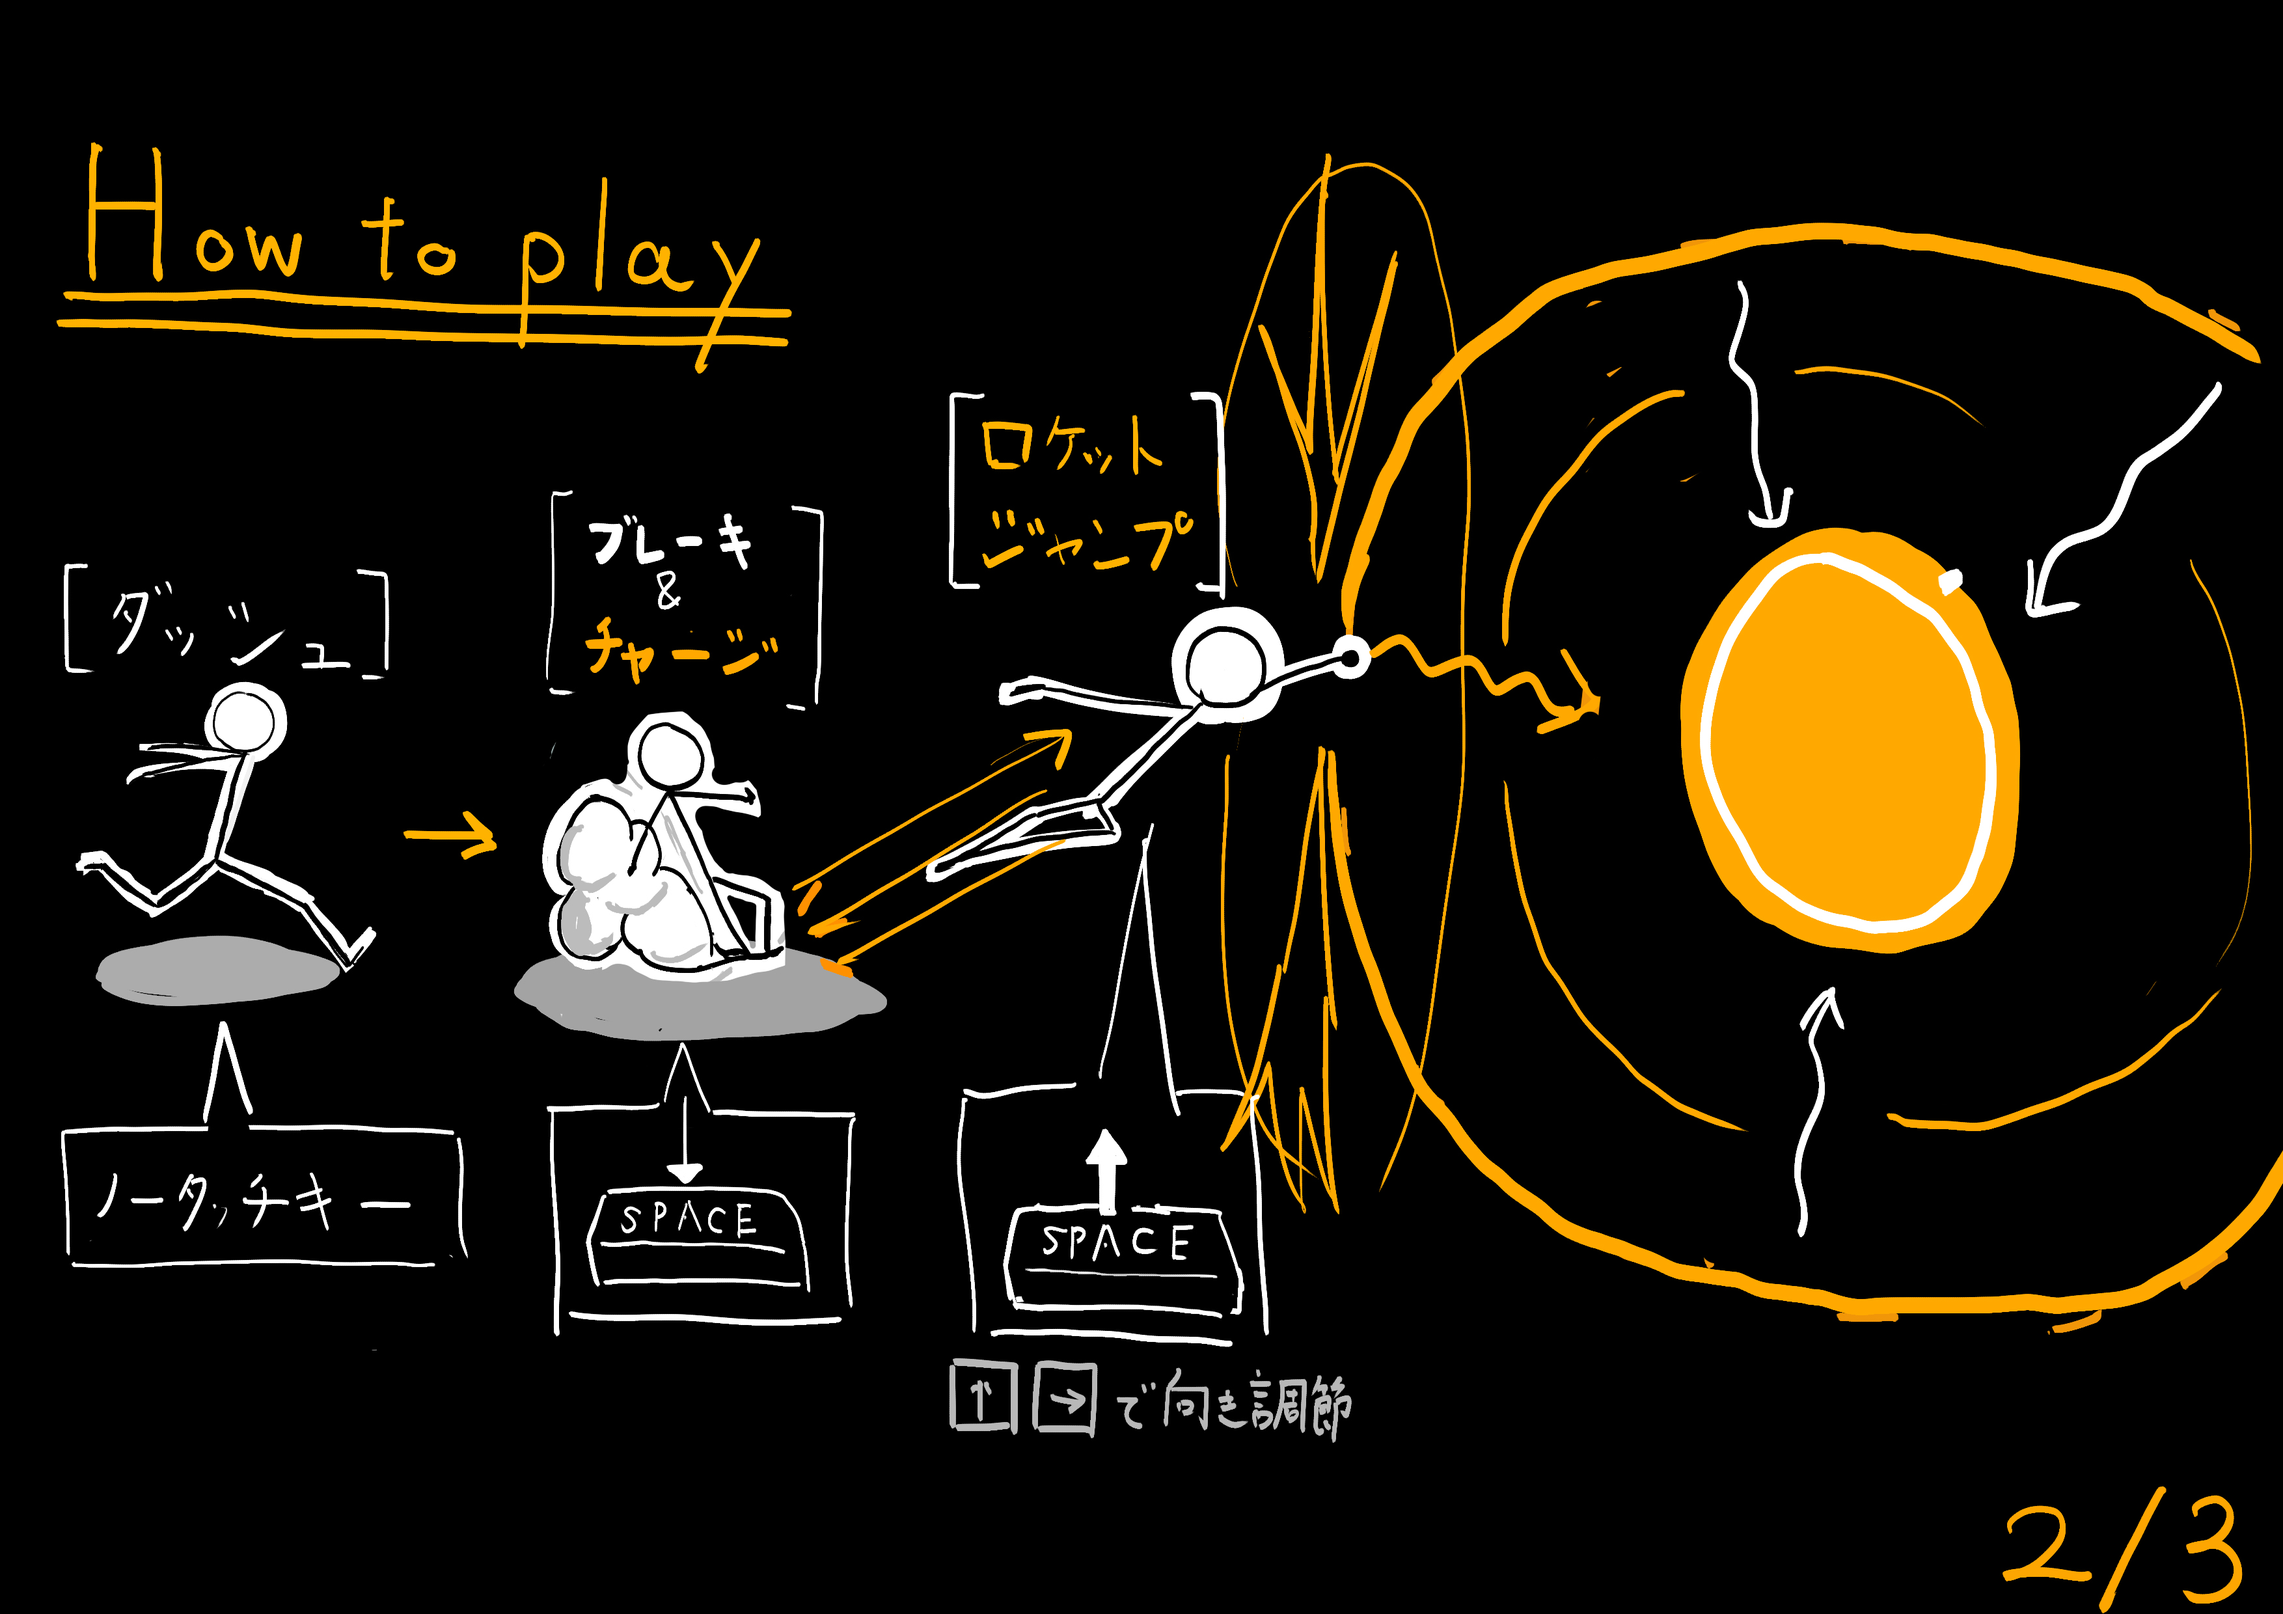
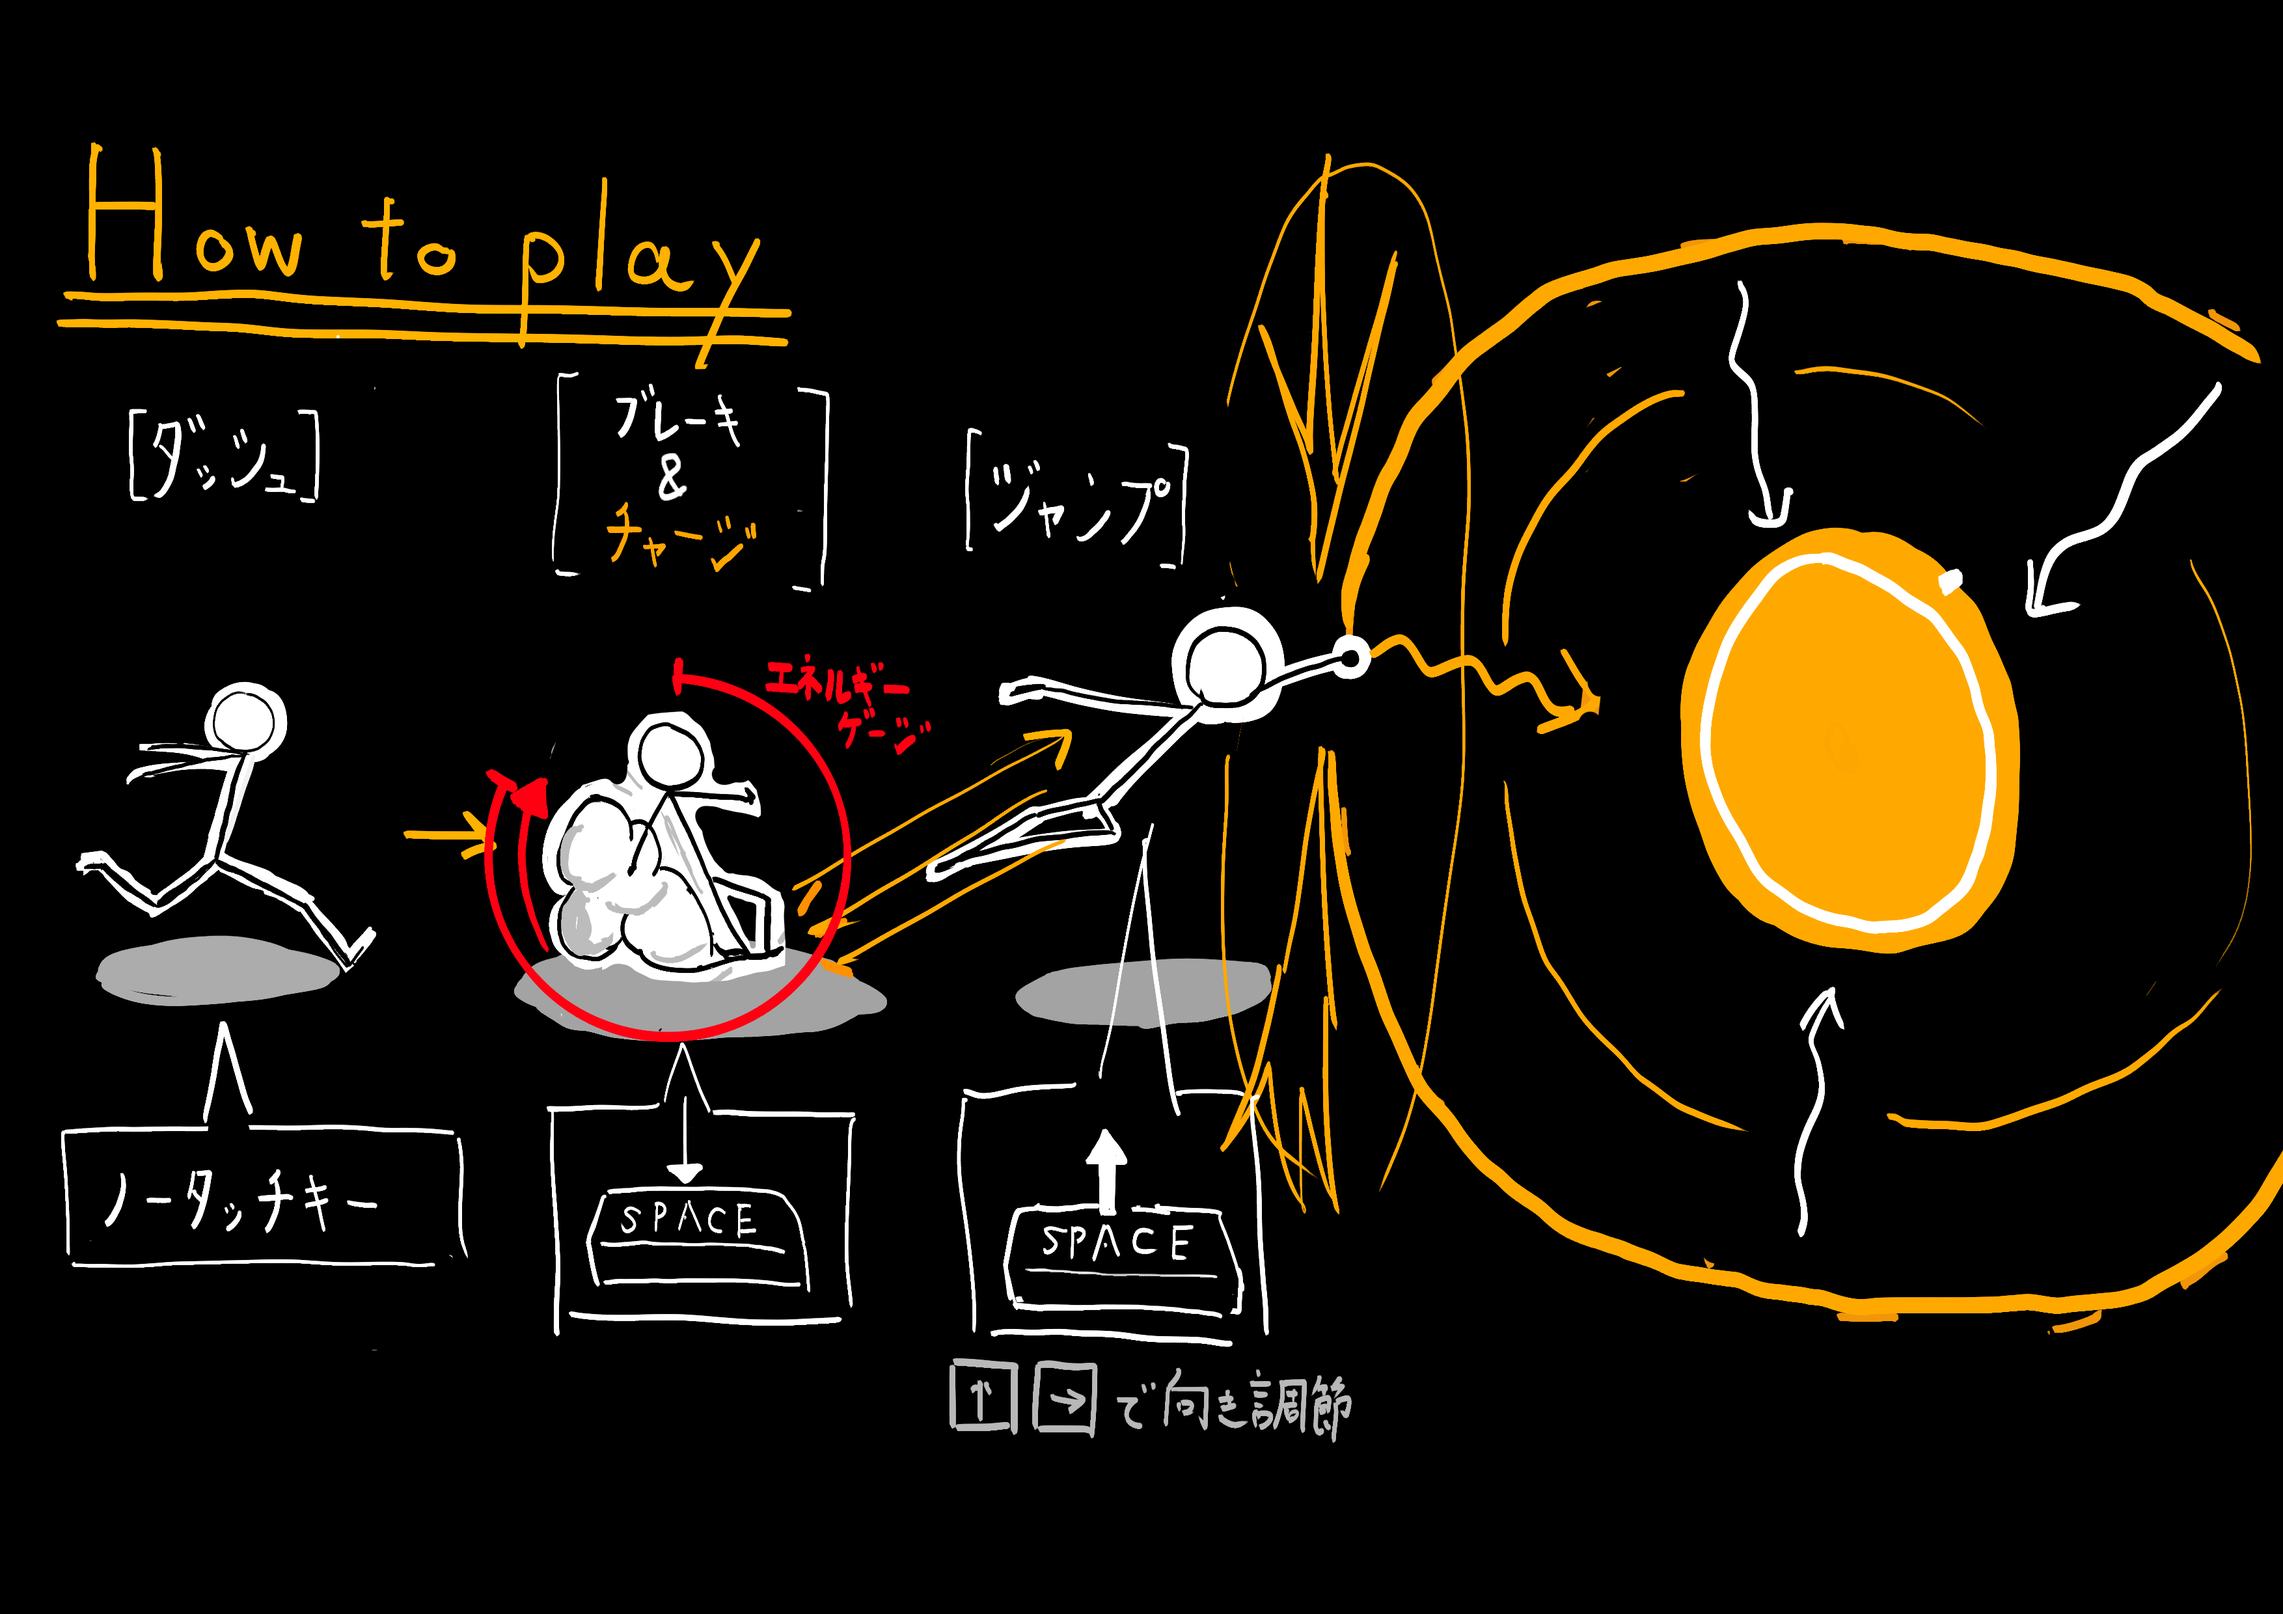
Finish basic implementations.

diff --git a/src/Main.cpp b/src/Main.cpp
@@ -6,6 +6,11 @@
 # include "image_process.hpp"
 # include "Blackhole.hpp"
 
+// #TODO 
+    // ワームホールの中心に黒点
+    // 数字を消す
+
+
 // #TODO ディメンションホールの実装
     // 一定速度で左に行く
     // 楕円の描画(黒)
@@ -114,9 +119,13 @@ void Main()
     // 背景の色を設定する
 	Scene::SetBackground(ColorF{ 0.1, 0.1, 0.1 });
     
-    Audio bgm{U"../assets/music/Clarity_of_My_Sight.mp3", Loop::Yes};
-    assert(bgm);
-    //bgm.playOneShot();
+    Window::SetStyle(WindowStyle::Sizable);
+
+    Audio bgm_game{U"../assets/music/reflectable.mp3", Loop::Yes};
+    Audio bgm_instruction{U"../assets/music/予兆.mp3", Loop::Yes};
+    Audio se_bighit{U"../assets/se/hit.mp3"};
+    assert(bgm_game);
+    assert(bgm_instruction);
 
     GameState gamestate = G_Ready;
 
@@ -163,6 +172,7 @@ void Main()
             line.end    *= photo_meter_per_pixel;
         }
     }
+    
     for (int i = 1; i < lines_of_stages.size(); i++) {
         for (Line& line : lines_of_stages[i]) {
             line.begin.x  += Photo_world_Rect.x * i;
@@ -172,6 +182,7 @@ void Main()
     }
 
     Player player{{3.0, Photo_world_Rect.y/3}};
+    player.transform_.velocity.x = 20;
     Blackhole blackhole{
         {Camera_world_Rect.x - Camera_world_Rect.x/7, Photo_world_Rect.y/7},
         Vec2{Camera_world_Rect.x/10, Photo_world_Rect.y/5} * 2,
@@ -184,6 +195,7 @@ void Main()
     Stopwatch game_start_stopwatch{StartImmediately::No};
     Stopwatch message_stopwatch{StartImmediately::Yes};
     int page = 0;
+    bgm_instruction.play();
     while (System::Update()) {
         ClearPrint();
         switch (gamestate) {
@@ -197,6 +209,8 @@ void Main()
                         if (page == how_to_play.size()) {
                             gamestate = Playing; 
                             game_start_stopwatch.start();
+                            bgm_instruction.stop();
+                            bgm_game.play();
                         }    
                     }
                     if (KeyLeft.up()) { page--; }
@@ -216,7 +230,7 @@ void Main()
                     const int photo_index_world = (int)floor( (blackhole.position.x - (Camera_world_Rect.x/2 + blackhole.basic_size.x/2)) / photo_world_width ) - 2;
                     const int cycle_count = photo_index_world / backgrounds.size();
                     const int photo_index_camera = ((photo_index_world) % backgrounds.size()) + ((photo_index_world % backgrounds.size() >= 0) ? 0 : backgrounds.size());
-
+                    
                     if (photo_passing_count < photo_index_world) {
                         if (photo_index_world >= 0) {
                             for (Line& line : lines_of_stages[photo_index_camera]) {
@@ -241,6 +255,7 @@ void Main()
                     }
                     if (const auto option_point = blackhole.collision_box().intersectsAt(player.collision_box())) {
                         blackhole.shrink(player.transform_.velocity.lengthSq(), (*option_point)[0]);
+                        se_bighit.play();
                         player.transform_.velocity *= -0.6;
                         player.transform_.velocity.x = Clamp(player.transform_.velocity.x, -5.0, 1.0);
                     }
@@ -251,7 +266,7 @@ void Main()
                 blackhole.update();
 
                 const Vec2 scroll_offset = Clamp(
-                    blackhole.position - Vec2{Camera_world_Rect.x/2, 0},
+                    blackhole.position - Vec2{Camera_world_Rect.x/2 - blackhole.basic_size.x / 2, 0},
                     Vec2::Zero() + Camera_world_Rect/2,
                     Photo_world_Rect - Camera_world_Rect / 2
                 );

diff --git a/src/Player.cpp b/src/Player.cpp
@@ -178,7 +178,7 @@ void Player::draw() const{
         const HSV charged_color{60 * (1 - p), 30};
         
         Circle(transform_.position, radius_proportion*character_size_.x*3)
-            .drawFrame(0.2, ColorF{charged_color, opacity});
+            .drawArc(0, 2*Math::Pi * p, 0.2, 0.2, ColorF{charged_color, opacity});
     }
     
 }
@@ -197,7 +197,7 @@ void Player::on_jump_start(const InputInfo& input) {
         // 走る速度に応じてジャンプの勢いを変えるようにする。
         const double momentum_coef = charged;
         charged *= 0.6;
-        transform_.velocity =  momentum_coef * (jump_velocity_max * input.jumping_direction + Vec2{0, -7});
+        transform_.velocity +=  momentum_coef * (jump_velocity_max * input.jumping_direction + Vec2{5, -7});
         p_state_ = S_Jump;
         on_start_off_ground(input);
         effect.add<BubbleEffect>(this->foot_point(), momentum_coef*3);

diff --git a/src/Blackhole.hpp b/src/Blackhole.hpp
@@ -64,7 +64,7 @@ public:
         for (int i = 0; i < 40; i++) {
             effect.add<SparkEffect>((touched_point + position)/2, 0.10, 9.8*3, RectF{{-15, -10}, {40, 20}});
         }
-        received_energy += energy / 20;
+        received_energy += energy / 100;
     }
     double destroyed_rate() {
         return (time) / (2 * max_time);

diff --git a/src/Player.hpp b/src/Player.hpp
@@ -62,8 +62,8 @@ public:
 
     // #FIXME Lineの寿命を考慮していないことに注意
     const Line* touched_ground = nullptr;
-    double move_speed_ = 18;
-    double jump_velocity_max = 15;
+    double move_speed_ = 30;
+    double jump_velocity_max = 24;
     double rundust_time = 0;
     double jump_effect_time = 0;
     

diff --git a/src/Blackhole.cpp b/src/Blackhole.cpp
@@ -3,7 +3,7 @@
 
 void Blackhole::update() {
     if (not destroyed) {
-        position.x += 10 * Scene::DeltaTime();
+        position.x += 20 * Scene::DeltaTime();
         time -= Scene::DeltaTime();
     } else {
         destroyed_count += Scene::DeltaTime();
